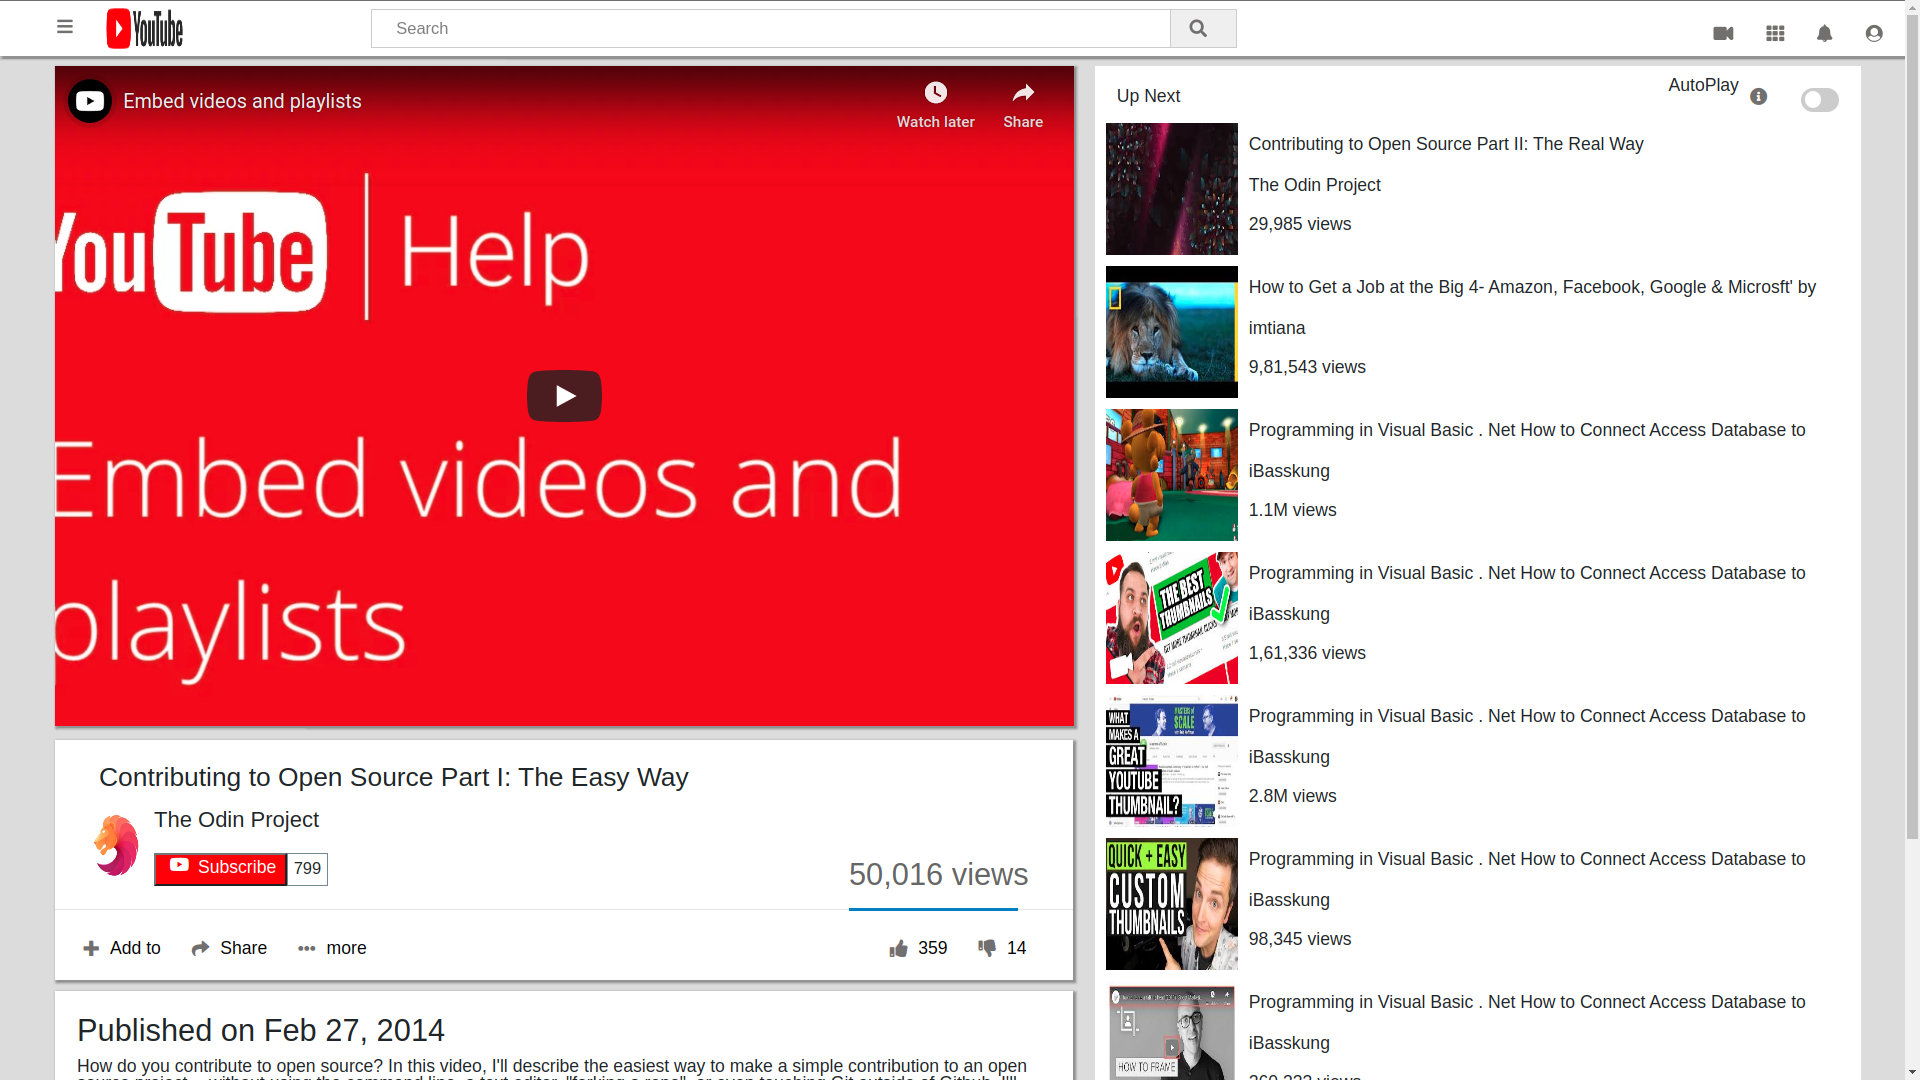
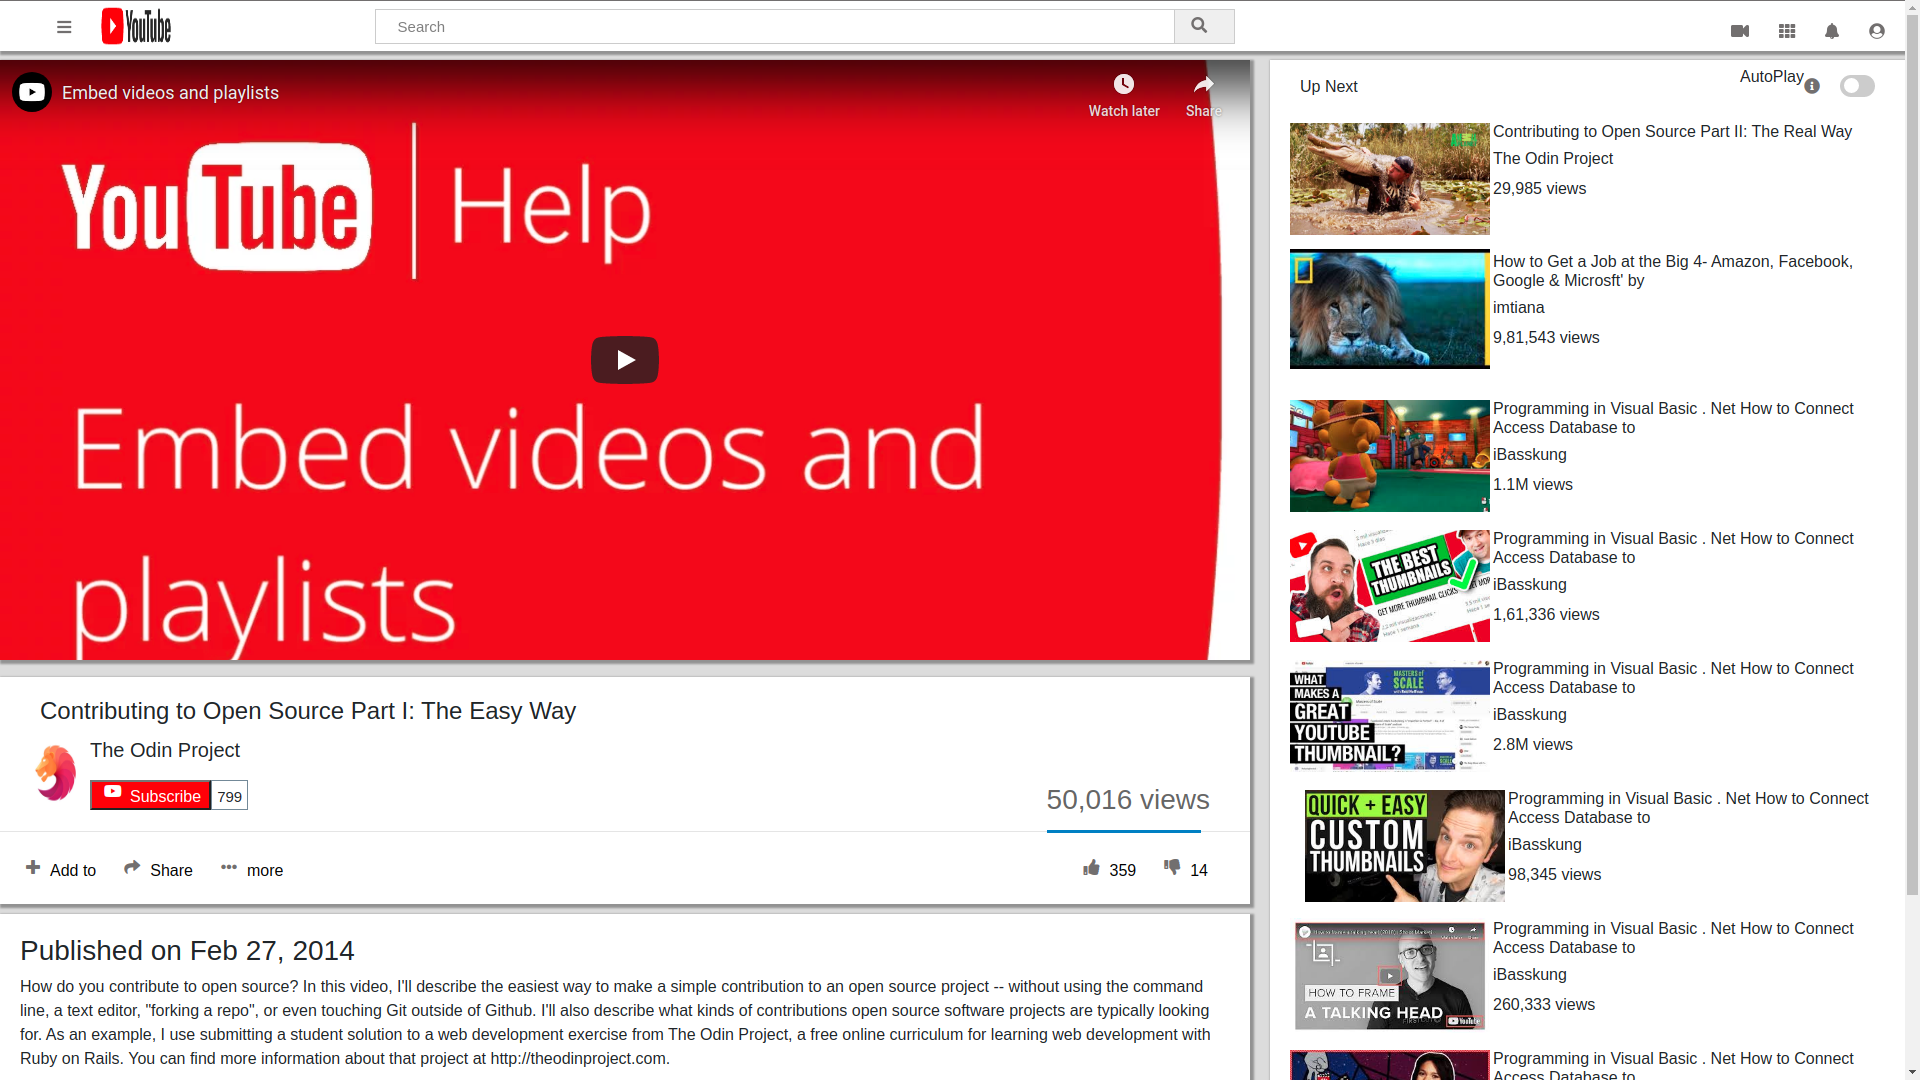
Last updates compleated

diff --git a/mystyle.css b/mystyle.css
@@ -28,10 +28,7 @@ article, aside, details, figcaption, figure,
 footer, header, hgroup, menu, nav, section {
 	display: block;
 }
-body {
-    line-height: 1;
-    
-}
+
 ol, ul {
 	list-style: none;
 }
@@ -59,9 +56,12 @@ header{
     width:100%;
     position: fixed;
     z-index: 2;
-
+    margin: 0px;
+    padding:0px;
 }
 body{
+    margin: 0px;
+    padding:0px;
     width:100%;
     height:100%;
     background-color:#DDD;
@@ -71,8 +71,11 @@ body{
 
 .container-fluid{
     width:100%;
+    display: flex;
     background-color: gainsboro;
     align-content: center;
+    margin:0px;
+    padding:0px;
 }
 
 .header-nav{
@@ -83,6 +86,8 @@ body{
     display: flex;
     flex-direction: row;
     justify-content: space-between;
+    margin: 0px;
+    padding:0px;
 }
 /* LEFT SIDE OF NAV BAR */
 
@@ -134,6 +139,8 @@ padding-top:15px;
 display: flex;
 flex-direction: row;
 justify-content: space-evenly;
+margin: 0px;
+padding:0px;
 }
 
 #youtube-logo{
@@ -153,30 +160,34 @@ height: 50px;
     display: flex;
     justify-content: space-between;
     align-items: center;
+    margin: 0px;
+    padding:0px;
     }
     
 
 /* Video Section */
 iframe {
-    width: 98%;;
+    width: 100%;
     height: 600px;
-    margin: 10px 10px 0px 20px;
+    margin:10px 0px 0px 0px;
 }
 #columns{
     display: flex;
     flex-direction: row;
     z-index:1;
-padding-top: 50px;;
-
+    padding-top: 50px;
+    margin:0px;
+    width:100%;
 }
 .left-column{
 margin-right:10px;
+
+
 }
 #board {
     display: flex;
     flex-direction: column;
     justify-content: center;
-    margin-left: 20px;
 }
 #board1 {
     display: flex;
@@ -397,12 +408,12 @@ aside{
 }
 
 #sideBar{
-    display: flex;
+    display: inline-flex;
     flex-direction: row;
     background-color: white;
     margin: 5px;
-height:120px;
-overflow:hidden;
+    height:120px;
+    overflow:hidden;
     
 }
 #sidebar-div{
@@ -434,6 +445,9 @@ overflow:hidden;
     display: flex;
     position: relative;
     position: relative;
+    display: inline-flex;
+    align-items:center;
+    justify-content:center;
 
    
 }
@@ -441,24 +455,24 @@ overflow:hidden;
     display: flex;
     flex-direction: column;
     height:100%;
-margin:0px;
-padding:0px;
-
+    margin:0px;
+    padding:0px;
+    display: inline-flex;
 }
 #sideBar div{
     display: flex;
 
 }
 #sidebartext-info{
-display: flex;
-flex-direction: column;
+    display: flex;
+    flex-direction: column;
 }
 #sideBartext h6{
    margin: 3px;
 }
 #sidebar p{
    position: relative;
-font-size: x-small;
+    font-size: x-small;
 }
 #sidebartext-info1 {
    margin: 3px;
@@ -467,7 +481,7 @@ font-size: x-small;
  }
 
 #sidebartext-info2 {
-   margin: 10px;
+   margin: 3px;
    position: relative;
 
 }
@@ -546,16 +560,18 @@ font-size: x-small;
           display: block;
           line-height: 132px;
           text-align: center;
+
       }
       
-      @media screen and (max-width: 1000px) {
+      @media  (max-width: 1000px) {
         .flex-direction{
         flex-direction:column;
         }
         .container-fluid{
             display:inline-flex;
             flex-wrap:wrap;
-            margin:0px;
+            margin:px;
+            
           }
       .left-column{
         width:100%;
@@ -564,30 +580,68 @@ font-size: x-small;
 
         }
   
-       
+        .flexFont {
+            height:8em;
+            width:75%;
+            background-color:#eeeeee;
+            padding:1%;
+            margin: 10px;
+        }
+        
+        
     
 }  
-@media screen and (max-width:100%) {
-#sideBar{
+@media (max-width:300%) {
+    .container{
+        flex-direction:column;
+        }
+    #sideBar{
     flex-direction:column;
     display:inline-flex;
     flex-wrap:wrap;
     margin:0px;
+    max-width:100%;
+
 }
 
 #sidebar-image{
     border-right:none;
     border-left:none;
     flex-wrap:wrap;
-
+    display: flex;   
+    max-width:100%;
 }
 #sideBartext{
     border-right:none;
     border-left:none;
     flex-wrap:wrap;
+    display:flex;
+    max-width:100%;
 
 }
 
 
 
       }
+    
+/*     
+      @media (min-width: 200px) 
+      { 
+        #sideBartext  h6{ font-size: 12px; }
+        #sidebartext-info1{ font-size: 780px; }
+        #sidebartext-info2{ font-size: 10px; }
+
+      } */
+      
+      @media screen and (max-width: 992px) { 
+        #sideBartext  h6{ font-size: 16px; }
+        #sidebartext-info1{ font-size: 16px; }
+        #sidebartext-info2{ font-size: 16px; }      }
+      
+        @media screen and (max-width: 600px)       { 
+        #sideBartext  h6{ font-size: 18px; }
+        #sidebartext-info1{ font-size: 14; }
+        #sidebartext-info2{ font-size: 14px; }
+      } 
+
+     

diff --git a/index.html b/index.html
@@ -25,7 +25,7 @@
 
   <section class="container-fluid">
 
-    <header class="row  box-shadow">
+    <header class="  box-shadow">
       <nav class=" header-nav " class="col-sm-12">
         <ul class="header-nav-left">
 
@@ -236,7 +236,7 @@
         </section>
 
         <section id="sideBar">
-          <div id="sidebar-image" ">
+          <div id="sidebar-image">
             <img src=" ./File/img/sidebar3.jpeg" alt="side bar image">
           </div>
           <div id="sideBartext">
@@ -277,7 +277,7 @@
         </section>
 
 
-        <section id="sideBar">
+        <section id="sideBar" class="flexFont container">
           <div id="sidebar-image">
             <img src="./File/img/sidebarimg6.jpeg" alt="side bar image">
           </div>
